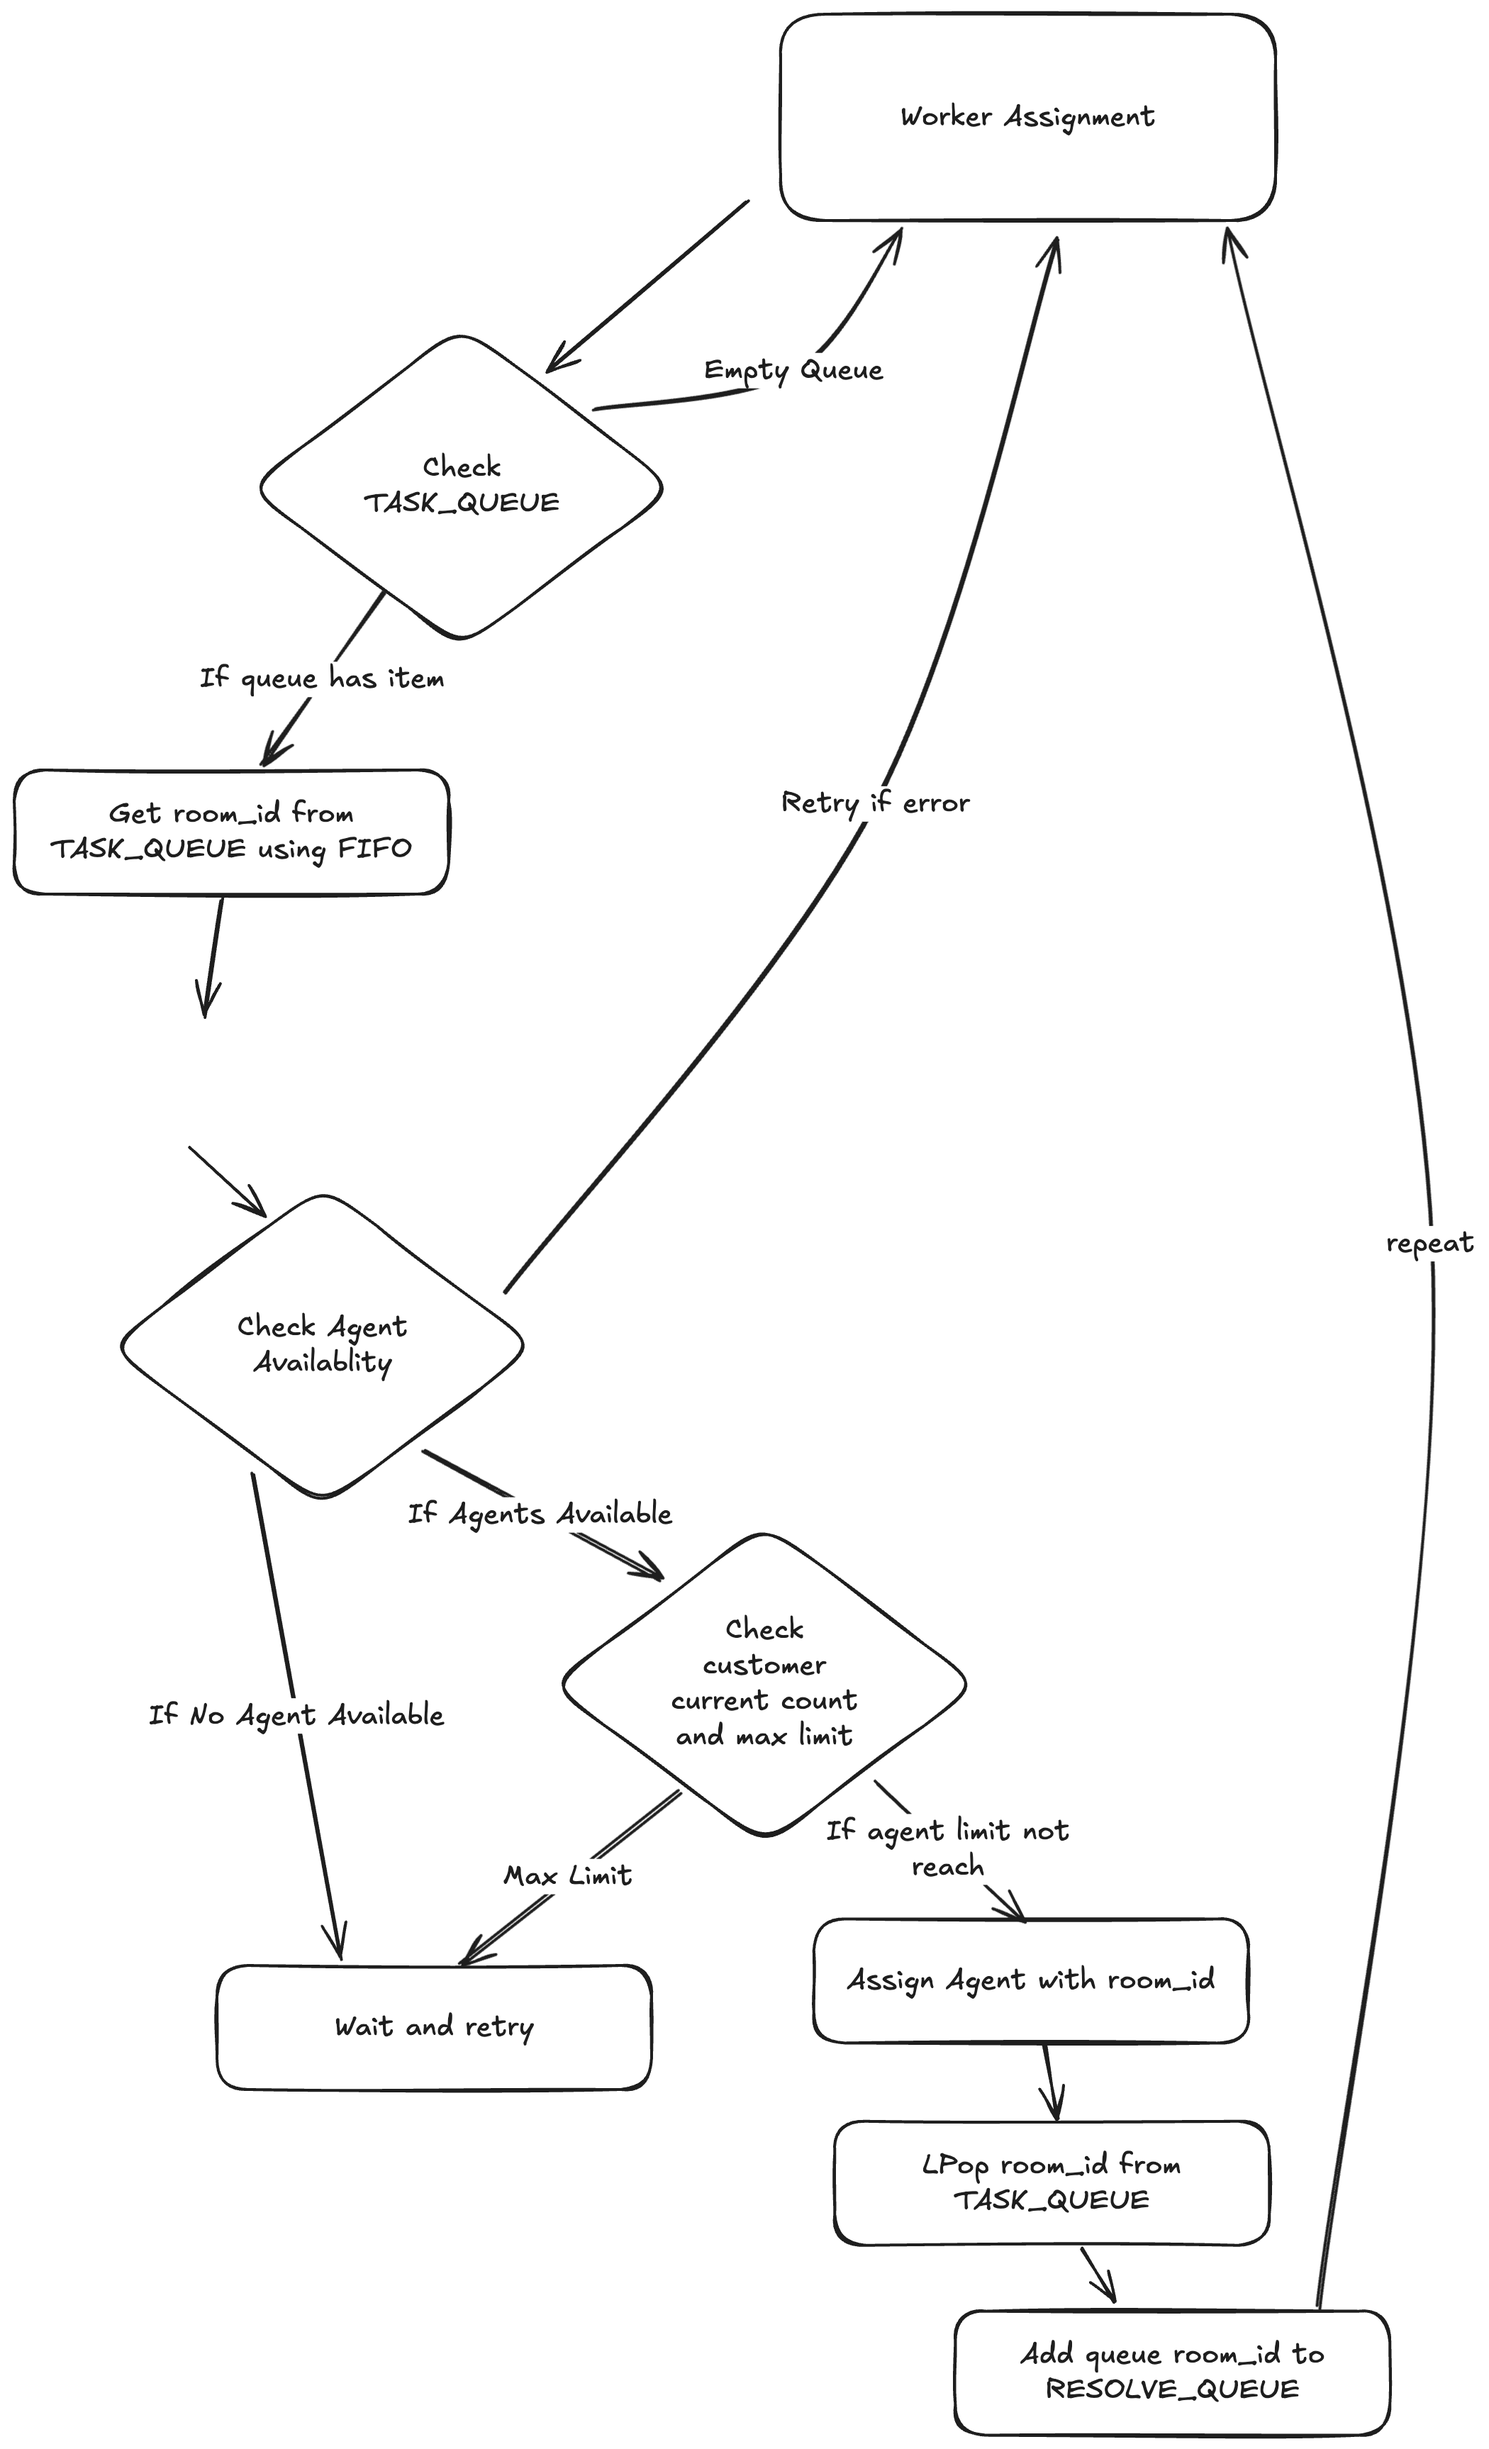
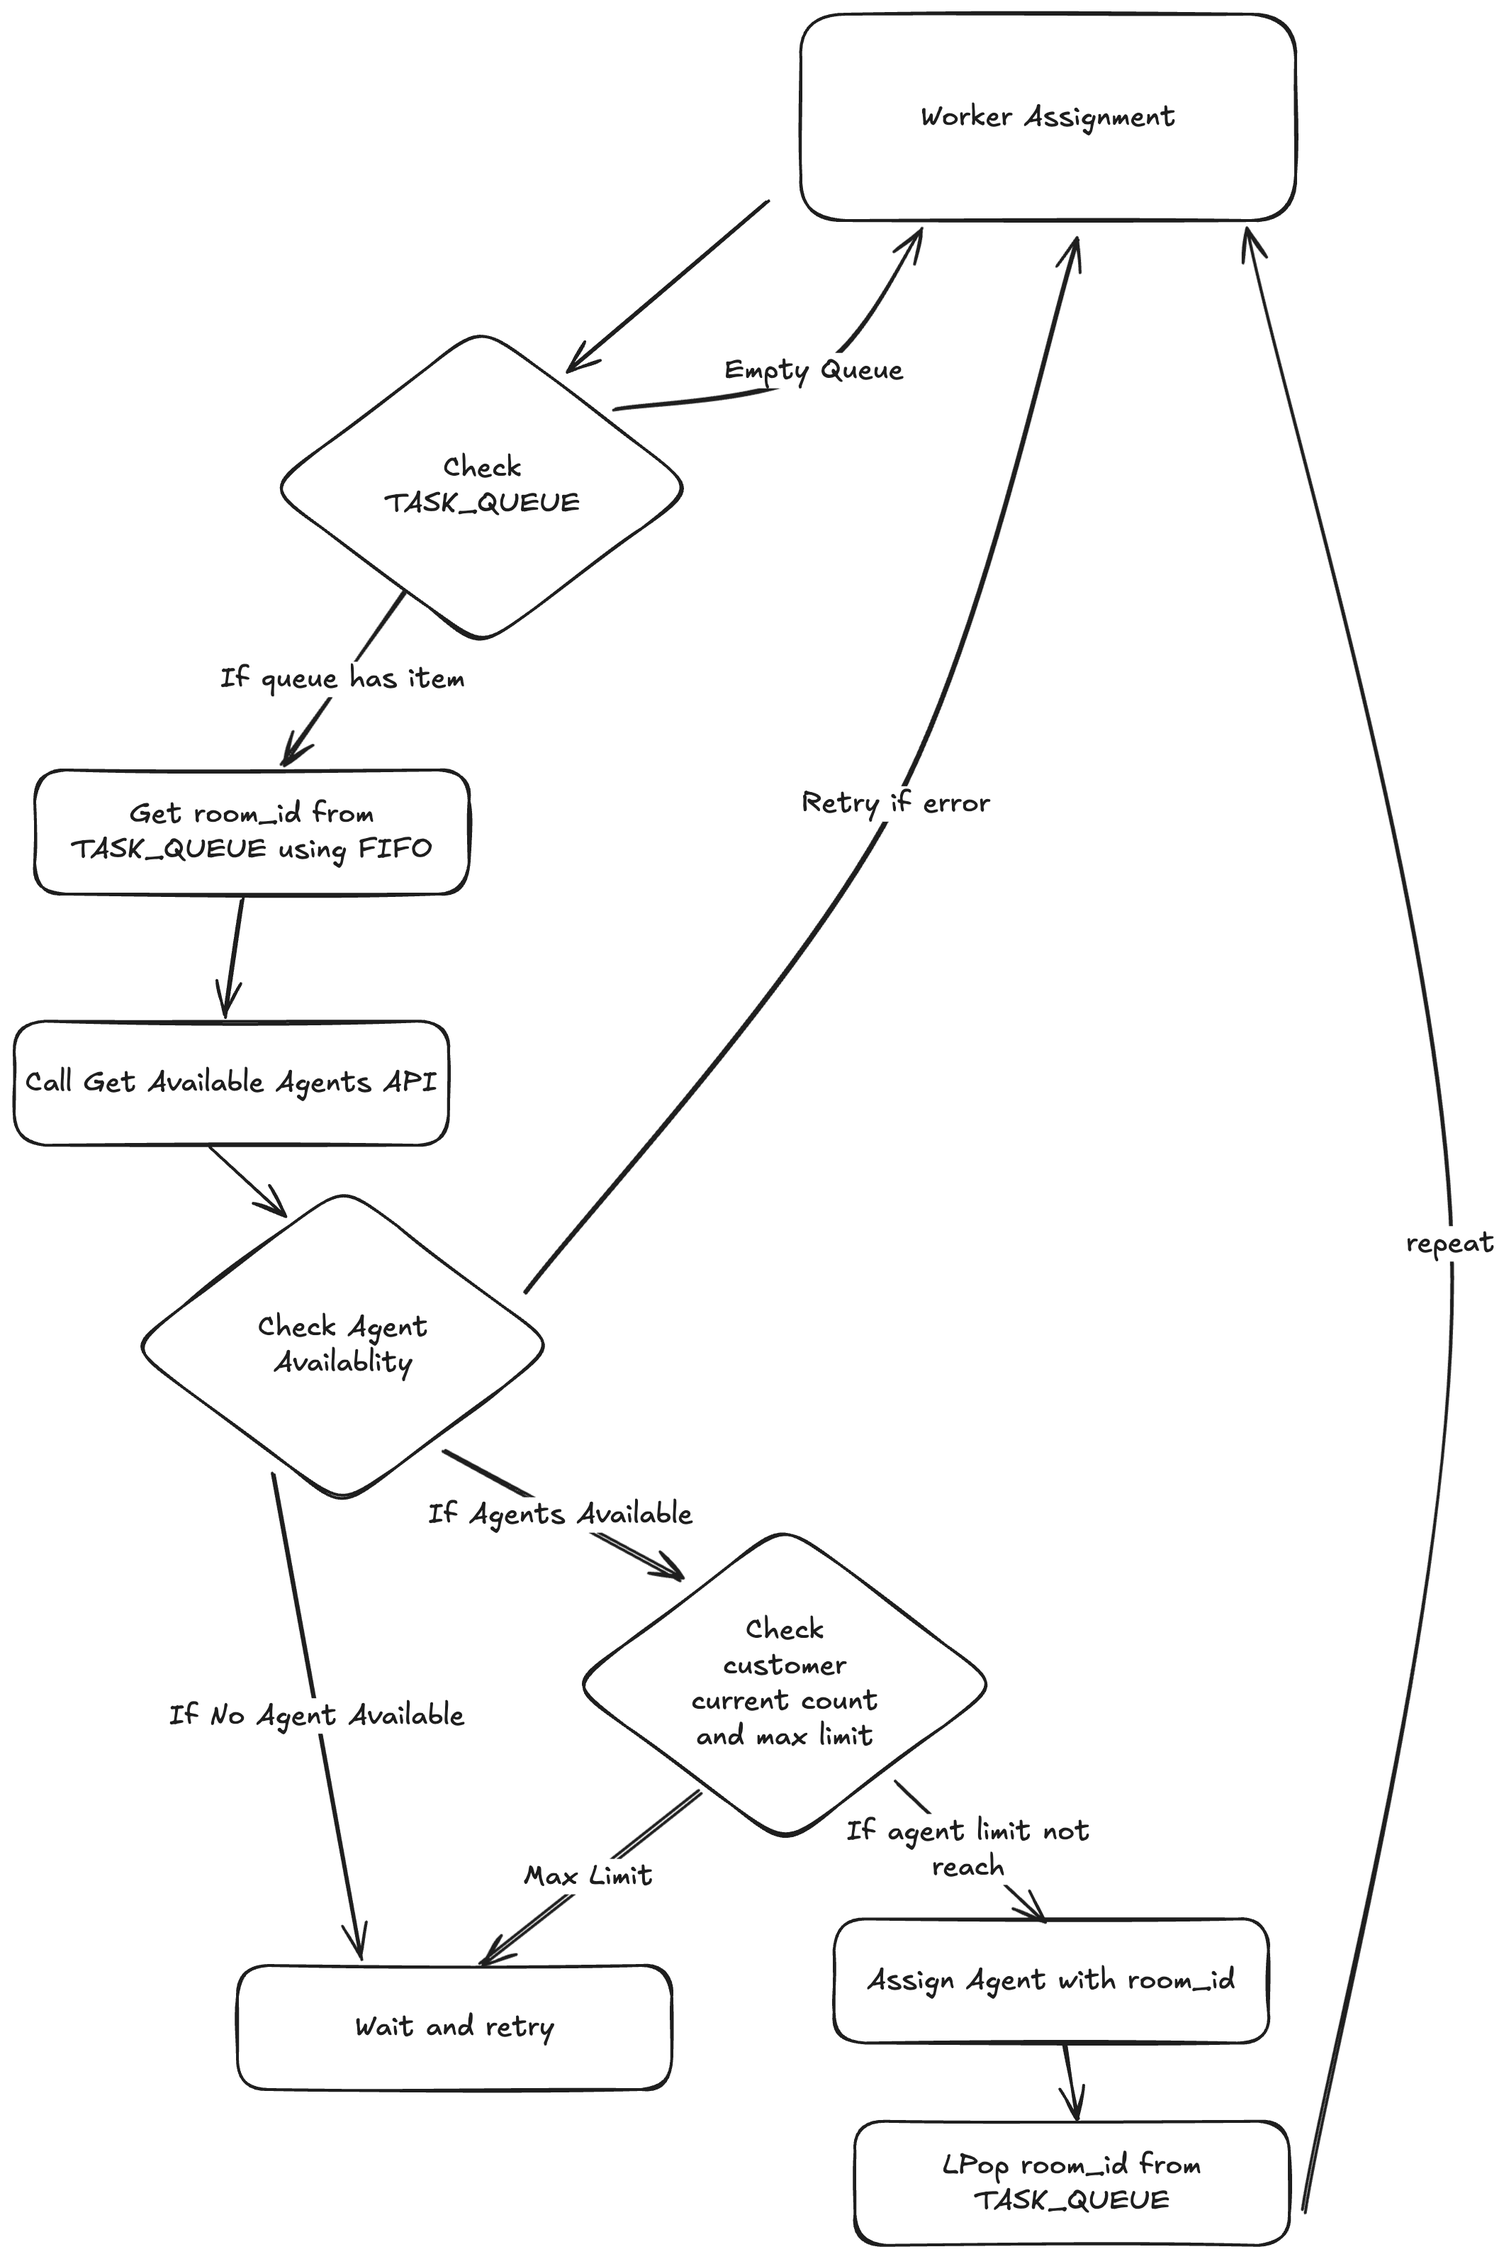
initial commit

diff --git a/main.go b/main.go
@@ -19,14 +19,11 @@ import (
 )
 
 var (
-	APP_ID     = "tqxyb-ivaigtav3oku4cj"
-	SECRET_KEY = "6df96f4525cf12f2bc315d4c1eb98d5e"
-	CHANNEL_ID = "131203"
-	BASE_URL   = "https://omnichannel.qiscus.com"
-	REDIS_HOST = "127.0.0.1:6379"
-	REDIS_PASS = ""
-	REDIS_URL  = "redis://127.0.0.1:6379"
-	// REDIS_URL    = "rediss://default:AVITAAIjcDE4MTk2ZTAwNjk2Yjk0NWNkOTQ1MDI3MjhmMGM5NzI1Y3AxMA@glad-wahoo-21011.upstash.io:6379"
+	APP_ID       = "tqxyb-ivaigtav3oku4cj"
+	SECRET_KEY   = "6df96f4525cf12f2bc315d4c1eb98d5e"
+	CHANNEL_ID   = "131203"
+	BASE_URL     = "https://omnichannel.qiscus.com"
+	REDIS_URL    = "redis://127.0.0.1:6379"
 	MAX_CUSTOMER = 5
 )
 
@@ -250,6 +247,10 @@ func Serve() {
 					log.Println("Agents empty")
 					continue
 				}
+				if selectedAgent.CurrentCustomerCount >= MAX_CUSTOMER {
+					log.Println("Agents are full right now")
+					continue
+				}
 				log.Println("ASSIGN agent_ID " + selectedAgent.Email + " room_ID: " + roomID)
 				respAssignAgent, err := AssignAgent(roomID, selectedAgent.ID)
 				if err != nil {
@@ -267,48 +268,48 @@ func Serve() {
 					fmt.Printf("Popped element: %s\n", poppedItem)
 				}
 
-				pushItem, err := queue.client.RPush(ctx, "RESOLVE_QUEUE", roomID).Result()
-				if err == redis.Nil {
-					fmt.Println("List is empty, no element popped.")
-				} else if err != nil {
-					log.Fatalf("Error popping from list: %v", err)
-				} else {
-					fmt.Printf("Popped element: %d\n", pushItem)
-				}
+				// pushItem, err := queue.client.RPush(ctx, "RESOLVE_QUEUE", roomID).Result()
+				// if err == redis.Nil {
+				// 	fmt.Println("List is empty, no element popped.")
+				// } else if err != nil {
+				// 	log.Fatalf("Error popping from list: %v", err)
+				// } else {
+				// 	fmt.Printf("Popped element: %d\n", pushItem)
+				// }
 			}
 			time.Sleep(5 * time.Second)
 		}
 	}(ctx, MAX_CUSTOMER)
 
-	go func(ctx context.Context) {
-		log.Println("Resolver Worker is running...")
-		for {
-			resultResolve := queue.client.LIndex(ctx, "RESOLVE_QUEUE", 0)
+	// go func(ctx context.Context) {
+	// 	log.Println("Resolver Worker is running...")
+	// 	for {
+	// 		resultResolve := queue.client.LIndex(ctx, "RESOLVE_QUEUE", 0)
 
-			if resultResolve.Err() == redis.Nil {
-				log.Println("QUEUE RESOLVE EMPTY!")
-			} else {
-				roomIDResolve := resultResolve.Val()
-				log.Println("RESOLVING room_ID: " + roomIDResolve)
-				resp, err := MarkAsResolvedAdmin(roomIDResolve)
-				if err != nil {
-					log.Println("error MarkAsResolvedAdmin : ", err.Error())
-					time.Sleep(5 * time.Second)
-					continue
-				}
-				log.Println("successfully process", resp)
-				poppedItem, err := queue.client.LPop(ctx, "RESOLVE_QUEUE").Result()
-				if err == redis.Nil {
-					fmt.Println("List is empty, no element popped.")
-				} else if err != nil {
-					log.Fatalf("Error popping from list: %v", err)
-				} else {
-					fmt.Printf("Popped element: %s\n", poppedItem)
-				}
-			}
-			time.Sleep(3 * time.Second)
-		}
-	}(ctx)
+	// 		if resultResolve.Err() == redis.Nil {
+	// 			log.Println("QUEUE RESOLVE EMPTY!")
+	// 		} else {
+	// 			roomIDResolve := resultResolve.Val()
+	// 			log.Println("RESOLVING room_ID: " + roomIDResolve)
+	// 			resp, err := MarkAsResolvedAdmin(roomIDResolve)
+	// 			if err != nil {
+	// 				log.Println("error MarkAsResolvedAdmin : ", err.Error())
+	// 				time.Sleep(5 * time.Second)
+	// 				continue
+	// 			}
+	// 			log.Println("successfully process", resp)
+	// 			poppedItem, err := queue.client.LPop(ctx, "RESOLVE_QUEUE").Result()
+	// 			if err == redis.Nil {
+	// 				fmt.Println("List is empty, no element popped.")
+	// 			} else if err != nil {
+	// 				log.Fatalf("Error popping from list: %v", err)
+	// 			} else {
+	// 				fmt.Printf("Popped element: %s\n", poppedItem)
+	// 			}
+	// 		}
+	// 		time.Sleep(3 * time.Second)
+	// 	}
+	// }(ctx)
 
 	router := http.NewServeMux()
 	router.HandleFunc("GET /", func(w http.ResponseWriter, r *http.Request) {
@@ -325,6 +326,23 @@ func Serve() {
 			log.Println("error push to queue", err.Error())
 		}
 		log.Println("WEBHOOK HIT : ", payload)
+		ResponseSuccess(w, payload)
+	})
+
+	router.HandleFunc("POST /resolved", func(w http.ResponseWriter, r *http.Request) {
+		payload := map[string]interface{}{}
+		err := json.NewDecoder(r.Body).Decode(&payload)
+		if err != nil {
+			log.Println("Error decoder JSON:", err)
+		}
+
+		jsonBytes, err := json.MarshalIndent(payload, "", "  ")
+		if err != nil {
+			log.Fatal(err)
+		}
+
+		log.Println("WEBHOOK RESOLVED : ", string(jsonBytes))
+
 		ResponseSuccess(w, payload)
 	})
 	// Create a new server
@@ -369,6 +387,12 @@ func main() {
 	SECRET_KEY = os.Getenv("SECRET_KEY")
 	CHANNEL_ID = os.Getenv("CHANNEL_ID")
 	BASE_URL = os.Getenv("BASE_URL")
+	REDIS_URL = os.Getenv("REDIS_URL")
+	max_customer_value, err := strconv.Atoi(os.Getenv("MAX_CUSTOMER"))
+	if err != nil {
+		fmt.Println("Error converting invalid string:", err)
+	}
+	MAX_CUSTOMER = max_customer_value
 
 	var argsRaw = os.Args
 	if len(argsRaw) <= 1 {

diff --git a/README.md b/README.md
@@ -12,11 +12,7 @@
 
 ![alt text](worker_assignment.png)
 
-### Flowchart of Woker Assignment
-
-![alt text](worker_resolver.png)
-
-This Golang service functions to handle the allocation of incoming chats to available agents. There are 2 workers that run continuously to check whether there are queues or not: Worker Assignment and Worker Resolver. Worker Assignment functions to retrieve the room_id queue from Redis TASK_QUEUE and then assign available agents. Worker Resolver functions to resolve each room_id that has been assigned.
+This Golang service functions to handle the allocation of incoming chats to available agents. i use go routine mechanism to create worker, lets name it Worker Assignment. Worker Assignment functions is to retrieve the room_id queue from Redis TASK_QUEUE and then assign available agents.
 
 ## Process Flow
 
@@ -24,6 +20,5 @@ This Golang service functions to handle the allocation of incoming chats to avai
 2. When the customer starts a chat and sends a message, the webhook will be triggered
 3. The message is in JSON format, which contains fields including room_id. This room_id will be stored in a queue named `TASK_QUEUE`
 4. There are 2 workers that will process the queue: worker assignment and worker resolver. Worker assignment will process the `TASK_QUEUE` containing the queue of incoming customer chat room_id. In this case, it retrieves room_id from the queue using FIFO (First In, First Out) principle
-5. Worker assignment will then check available agents based on their online/offline status by getting data from the get available agent API, as well as checking whether the customer's current load has reached the maximum or not. Then it assigns an agent to the room_id. After that, the room_id will be LPop (first in order) from Redis and then inserted into the RESOLVE_QUEUE
-6. Subsequently, Worker Resolver will resolve each room_id queue in the RESOLVE_QUEUE by retrieving from the queue using LIndex to get the first queue that entered, then making a resolve API call. If the resolve API call is successful, the queue will be LPop to remove it from the queue
-7. The process repeats again
+5. Worker assignment will then check available agents based on their online/offline status by getting data from the get available agent API, as well as checking whether the customer's current load has reached the maximum or not. Then it assigns an agent to the room_id. After that, the room_id will be LPop (first in order) from Redis
+6. The process repeats again
